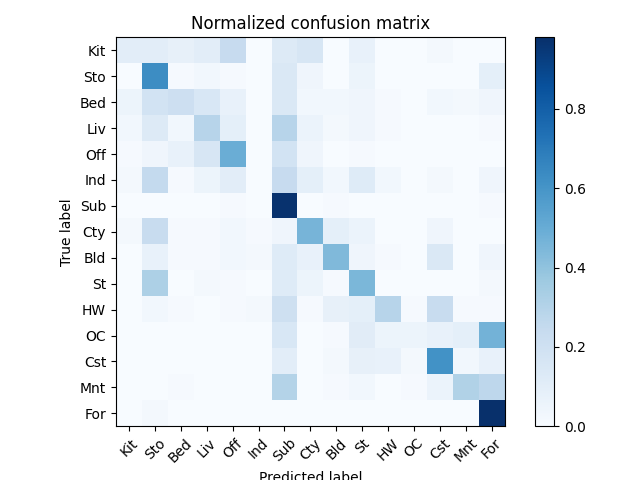
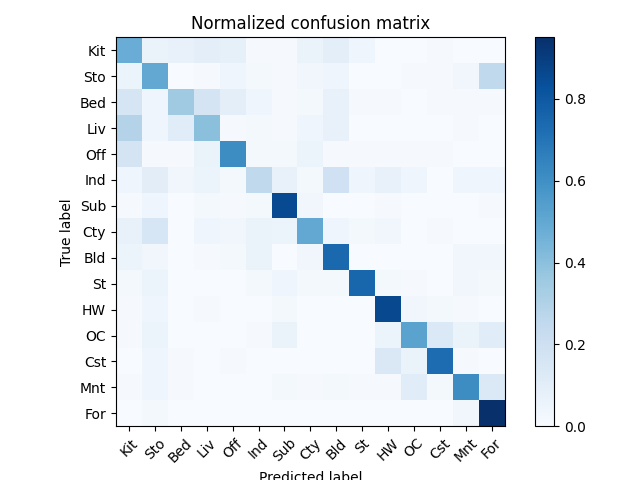
Finish p1

diff --git a/hw2/p1/utils.py b/hw2/p1/utils.py
@@ -145,14 +145,31 @@ def build_vocabulary(img_paths: list, vocab_size: int = 400):
     ##################################################################################
 
     kps = []
+    sift = cv2.SIFT_create()
     for img_path in tqdm(img_paths):
         img = Image.open(img_path).convert("L")
         img = np.array(img)
 
-        sift = cv2.SIFT_create()
-        keypoints, descriptors = sift.detectAndCompute(img, None)
-        float_descriptors = descriptors.astype(float)
-        kps.append(float_descriptors)
+        # Dense SIFT: sample keypoints on a regular grid
+        h, w = img.shape
+        step = 8  # grid spacing (pixels)
+        size = 16  # SIFT patch diameter; larger = more context per descriptor
+        dense_keypoints = [
+            cv2.KeyPoint(x, y, size)
+            for y in range(size, h - size, step)
+            for x in range(size, w - size, step)
+        ]
+        _, descriptors = sift.compute(img, dense_keypoints)
+
+        if descriptors is not None:
+            float_descriptors = descriptors.astype(float)
+            # Randomly sample descriptors if there are too many
+            if float_descriptors.shape[0] > 100:
+                indices = np.random.choice(
+                    float_descriptors.shape[0], 100, replace=False
+                )
+                float_descriptors = float_descriptors[indices]
+            kps.append(float_descriptors)
 
     kmeans = KMeans(n_clusters=vocab_size, random_state=0).fit(np.concatenate(kps))
     vocab = kmeans.cluster_centers_
@@ -200,12 +217,26 @@ def get_bags_of_sifts(img_paths: list, vocab: np.array):
     ############################################################################
 
     img_feats = []
+    sift = cv2.SIFT_create()
+
     for img_path in tqdm(img_paths):
         img = Image.open(img_path).convert("L")
         img = np.array(img)
 
-        sift = cv2.SIFT_create()
-        keypoints, descriptors = sift.detectAndCompute(img, None)
+        # Dense SIFT: sample keypoints on a regular grid
+        h, w = img.shape
+        step = 8  # grid spacing (pixels)
+        size = 16  # SIFT patch diameter; must match build_vocabulary
+        dense_keypoints = [
+            cv2.KeyPoint(x, y, size)
+            for y in range(size, h - size, step)
+            for x in range(size, w - size, step)
+        ]
+        _, descriptors = sift.compute(img, dense_keypoints)
+
+        if descriptors is None:
+            img_feats.append(np.zeros(vocab.shape[0]))
+            continue
 
         # Calculate distances between descriptors and vocab
         distances = cdist(descriptors.astype(float), vocab)
@@ -213,8 +244,8 @@ def get_bags_of_sifts(img_paths: list, vocab: np.array):
         nearest_clusters = np.argmin(distances, axis=1)
         # Build histogram
         hist, _ = np.histogram(nearest_clusters, bins=np.arange(vocab.shape[0] + 1))
-        # Normalize histogram
-        hist = hist / np.linalg.norm(hist)
+        # Normalize histogram (L1: sum=1), consistent with L1 KNN distance
+        hist = hist.astype(float) / np.sum(hist)
         img_feats.append(hist)
 
     img_feats = np.array(img_feats)
@@ -275,10 +306,10 @@ def nearest_neighbor_classify(
 
     test_predicts = []
     for test_feat in tqdm(test_img_feats):
-        distances = cdist(test_feat.reshape(1, -1), train_img_feats)
-        nearest_neighbors = np.argsort(distances)[0][
-            :10
-        ]  # Get indices of 10 nearest neighbors
+        distances = cdist(
+            test_feat.reshape(1, -1), train_img_feats, metric="minkowski", p=1
+        )
+        nearest_neighbors = np.argsort(distances)[0][:5]  # k=5 nearest neighbors
         nearest_labels = [CAT2ID[train_labels[i]] for i in nearest_neighbors]
         # Vote for the final label
         predicted_label = max(set(nearest_labels), key=nearest_labels.count)

diff --git a/hw2/p1/p1.py b/hw2/p1/p1.py
@@ -96,7 +96,7 @@ def main():
             print(
                 "No existing visual word vocabulary found. Computing one from training images"
             )
-            vocab_size = 300  # vocab_size is up to you, larger values will work better (to a point) but be slower to compute
+            vocab_size = 1024  # vocab_size is up to you, larger values will work better (to a point) but be slower to compute
             vocab = build_vocabulary(train_img_paths, vocab_size)
             with open("vocab.pkl", "wb") as f:
                 pickle.dump(vocab, f, protocol=pickle.HIGHEST_PROTOCOL)
